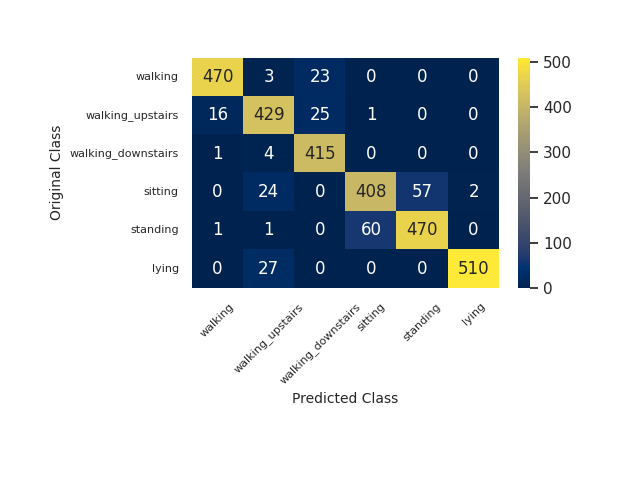
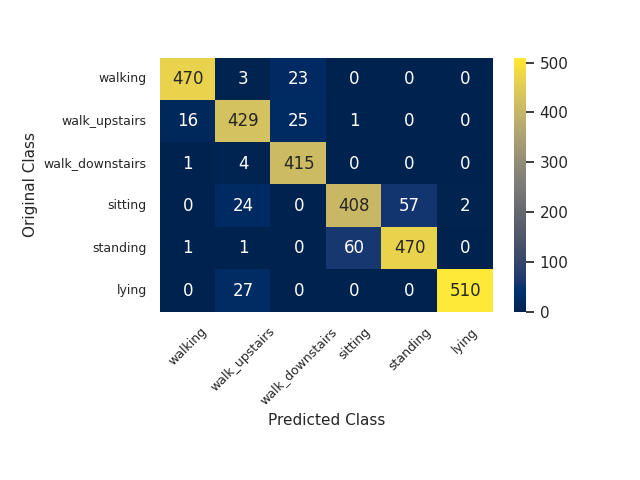
Confusion matrix

diff --git a/global_train.py b/global_train.py
@@ -21,7 +21,7 @@ def plot(y_test, y_pred):
     plt.xlabel('Predicted Class', fontsize = 10)
     plt.ylabel('Original Class', fontsize = 10)
     plt.grid()
-    plt.subplots_adjust(bottom=0.40, left=0.30)
+    plt.subplots_adjust(bottom=0.30, left=0.20)
     plt.tick_params(labelsize = 8)
     plt.xticks(rotation = 45)
     plt.savefig('confusion.png')
